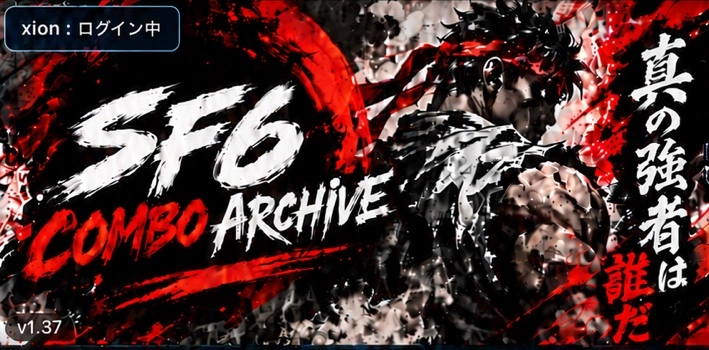
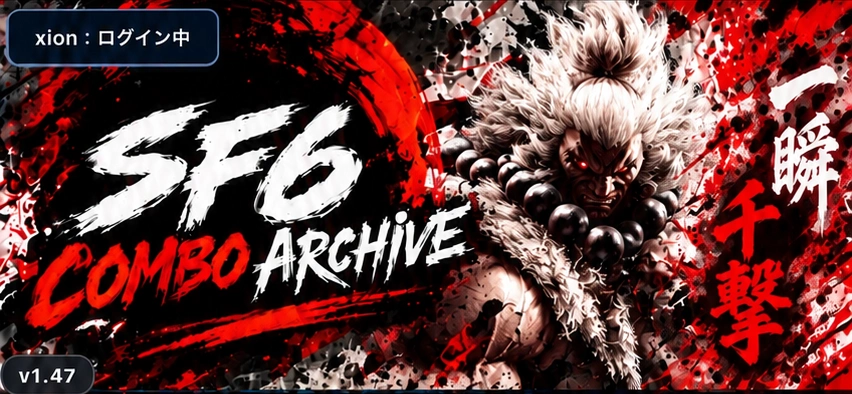
h

diff --git a/public/index.html b/public/index.html
@@ -963,16 +963,16 @@ body.home-page #home-screen .site-shell{height:100svh;overflow:hidden}
 .ar-card .ar-tags{margin-top:20px}
 </style>
 <style>
-/* v1.47: exact crops of user-approved artwork; no regenerated assets. */
+/* v1.48: exact crops of user-approved artwork; no regenerated assets. */
 #home-screen .home-v119{height:auto;min-height:100svh;overflow:visible;padding-bottom:calc(min(920px,100vw)*180/709 + env(safe-area-inset-bottom));background:#030506}
-#home-screen .home-hero-v119{aspect-ratio:709/350;height:auto!important}
+#home-screen .home-hero-v119{aspect-ratio:852/394;height:auto!important}
 #home-screen .home-hero-v119 .site-banner{position:static;top:auto;width:100%;height:100%;object-fit:fill}
-#home-screen .home-hero-v119 .fgc-account-entry{top:1%;left:.7%;width:24.8%;max-width:none;height:13.5%;padding:0 4px;font-size:clamp(10px,2.35vw,18px);background:#080e1e;border:1px solid #63718c;z-index:2}
-#home-screen .home-hero-v119 .version-mark{left:0;bottom:0;background:#202024;border-radius:9px;font-size:clamp(9px,2.2vw,16px);padding:3px 8px;z-index:2}
+#home-screen .home-hero-v119 .fgc-account-entry{top:2.5%;left:.7%;width:24.8%;max-width:none;height:14.8%;padding:0 4px;font-size:clamp(10px,2.35vw,18px);background:#080e1e;border:1px solid #63718c;z-index:2}
+#home-screen .home-hero-v119 .version-mark{left:0;bottom:0;min-width:11.1%;height:10.4%;display:flex;align-items:center;justify-content:center;box-sizing:border-box;background:#202024;border-radius:9px;font-size:clamp(9px,2.2vw,16px);padding:3px 8px;z-index:2}
 #home-screen .home-search-v119{margin:0;padding:1.5% 2.8%;aspect-ratio:709/81;grid-template-columns:minmax(0,1fr) 21%;background:url('assets/arcade/search.webp') center/100% 100% no-repeat;gap:0}
 #home-screen .home-search-v119 input{height:100%;padding:0 10px;border:0;border-radius:0;background:#090e13;font-size:clamp(10px,2.45vw,20px)}
 #home-screen .home-search-v119 button{height:100%;color:transparent!important;border:0;background:transparent!important;border-radius:0}
-#home-screen .home-shortcuts-v119{padding:0;gap:0;aspect-ratio:709/262;background:url('assets/arcade/shortcuts.webp') center/100% 100% no-repeat;margin:0}
+#home-screen .home-shortcuts-v119{padding:0;gap:0;aspect-ratio:852/290;background:url('assets/arcade/shortcuts.webp') center/100% 100% no-repeat;margin:0}
 #home-screen .home-shortcuts-v119 button{height:100%;border:0!important;border-radius:0;background:transparent!important;box-shadow:none!important;color:transparent}
 #home-screen .home-shortcuts-v119 button span{opacity:0}
 #home-screen .home-block-v119{padding:0 2.5% 5px}
@@ -991,7 +991,7 @@ body.home-page #home-screen .site-shell{height:100svh;overflow:hidden}
 .screen:not(#home-screen){padding-bottom:calc(min(920px,100vw)*180/709 + env(safe-area-inset-bottom))}
 </style>
 <style>
-/* v1.47: selected bezel follows the artwork, not the button hit rectangle. */
+/* v1.48: selected bezel follows the artwork, not the button hit rectangle. */
 .bottom-nav.home-bottom-nav-v119{height:calc(min(920px,100vw)*180/709);padding:0;background-image:url('assets/arcade/nav-inactive.webp');background-size:100% 100%;isolation:isolate}
 .bottom-nav.home-bottom-nav-v119:has(button[data-route="home"].active){background-image:url('assets/arcade/nav.webp')}
 .bottom-nav.home-bottom-nav-v119::after{content:"";position:absolute;inset:0;pointer-events:none;background:center/100% 100% no-repeat;z-index:1}
@@ -1020,7 +1020,7 @@ body.home-page #home-screen .site-shell{height:100svh;overflow:hidden}
   <div class="site-shell home-v119">
     <header class="site-header home-hero-v119">
       <img class="site-banner" src="assets/arcade/hero.webp" alt="SF6 COMBO ARCHIVE">
-      <span class="version-mark">v1.47</span><button id="fgcAccountEntry" class="fgc-account-entry" type="button" data-route="login">ログイン</button>
+      <span class="version-mark">v1.48</span><button id="fgcAccountEntry" class="fgc-account-entry" type="button" data-route="login">ログイン</button>
     </header>
 
     <div class="search-row home-search-v119">
